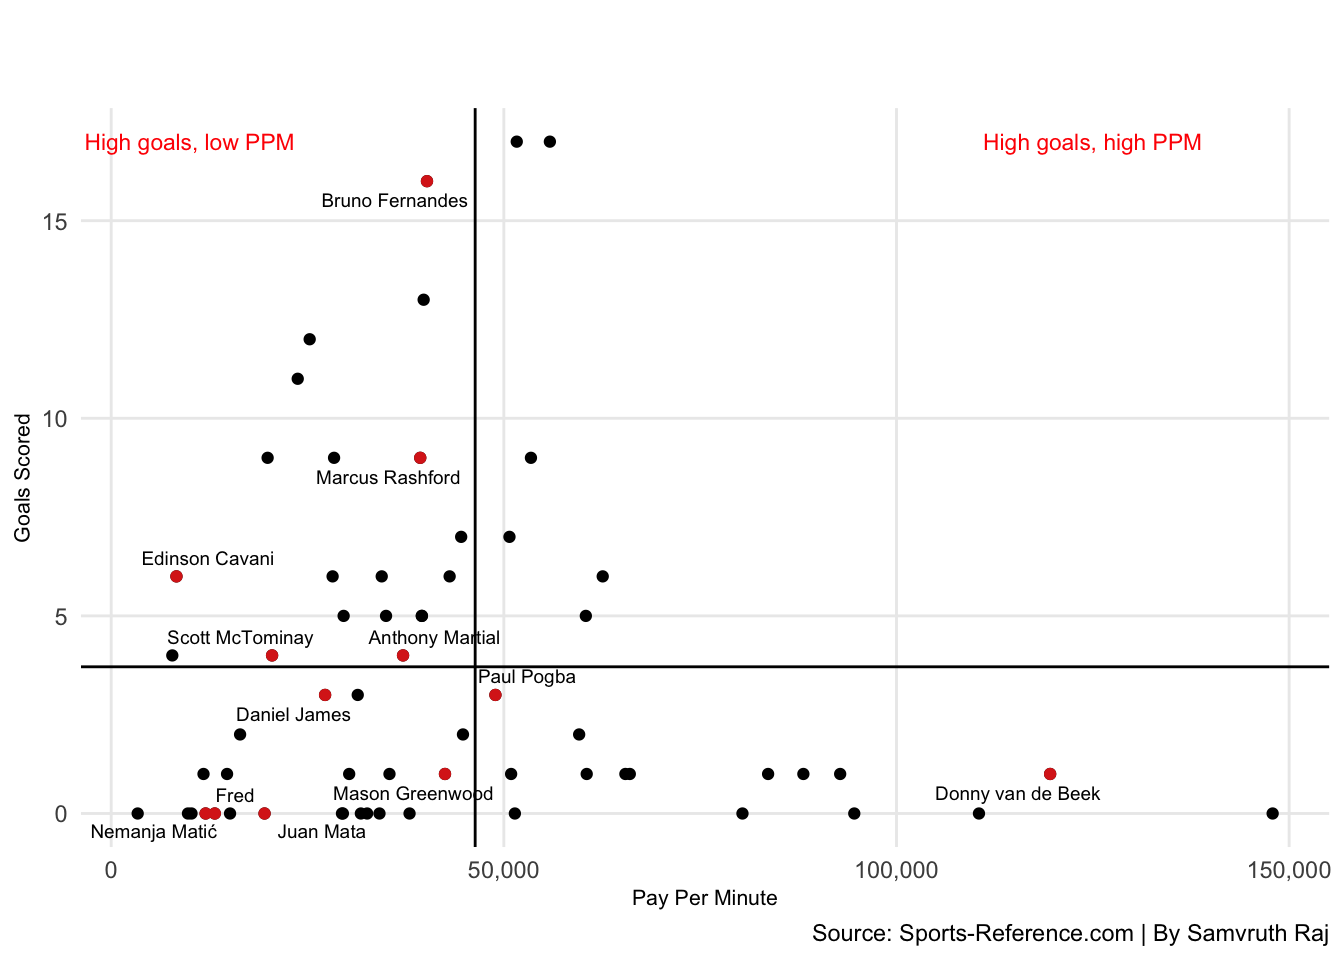
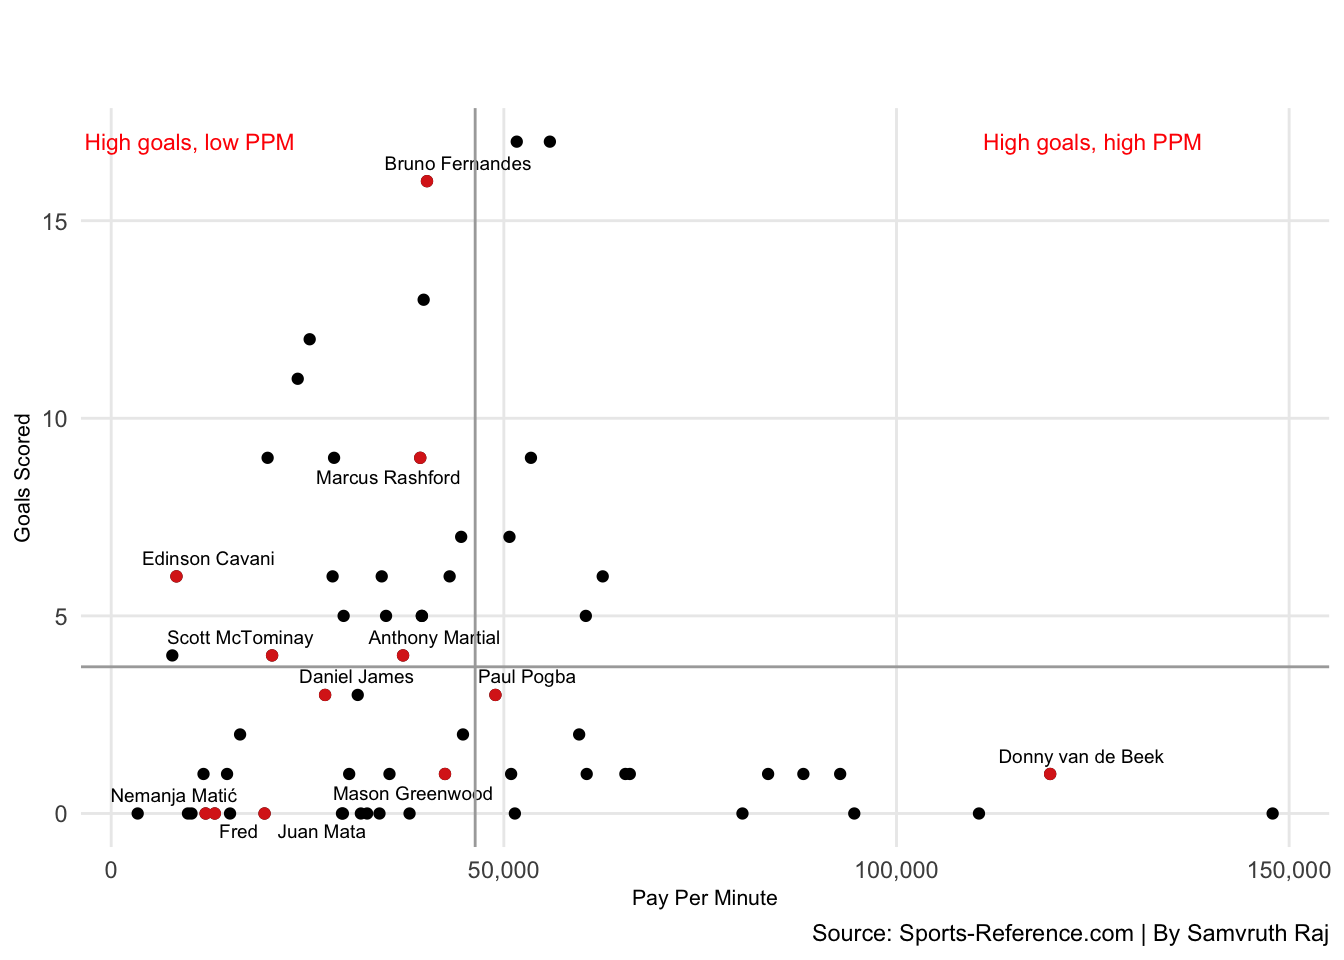
Project ready!

diff --git a/2021/04/01/do-manchester-united-players-have-the-worst-contracts-amongst-the-big-6-clubs/index.html b/2021/04/01/do-manchester-united-players-have-the-worst-contracts-amongst-the-big-6-clubs/index.html
@@ -62,7 +62,7 @@
 
   <article class="article">
     
-    <span class="article-duration">6 min read</span>
+    <span class="article-duration">11 min read</span>
     
 
     <h1 class="article-title">Do Manchester United Players have the worst contracts amongst the &#34;Big 6&#34; Clubs?</h1>
@@ -76,75 +76,51 @@
 <script src="/2021/04/01/do-manchester-united-players-have-the-worst-contracts-amongst-the-big-6-clubs/index_files/header-attrs/header-attrs.js"></script>
 
 
-<p>Manchester United has not won the English Premier League title ever since Sir Alex Ferguson, retired from his role as manager after the 2012/13 season. To this day, his successors David Moyes, Louis Van Gaal, Jose Mourinho, and Ole Gunnar Solskjaer have not been able to get success back to Old Trafford. David Moyes was chosen as the replacement right after Sir Alex retired, however, Moyes did not last that long as manager, following Moyes, Louis Van Gaal was at the club from 2014 to 2016, where he managed to win just one cup competition which was the FA Cup. Jose Mourinho was then given the job, in his first season as United manager, he led the team to the FA Community Shield, the League Cup, and the UEFA Europa League, the Red Devils also finished second place, right behind their rivals Man City, who went on to lift the Premier League title in the 2017/18 season. Following Mourinho’s dismissal, Ole Gunnar Solskjaer was appointed the interim boss for the remainder of the season and eventually penned a three-year deal with the Red Devils. Under Ole, Man United has not managed any silverware, losing four semifinals and a quarterfinal respectively. Well, one of the reasons Manchester United was so dominant before Sir Alex’s retirement, was good recruitment of players. United has desperately struggled with the recruitment of players, and over the past few years, players like, Angel Di Maria, Radamel Falcao, Alexis Sanchez, who have simply not fit United’s philosophy. Man United is known to give their players enormous contracts which eventually hurt the financials of the Club, given that these signings do not perform and eventually leave the club. Ever since Ole has got the permanent job, United seems to be doing just fine in terms of bringing players to Old Trafford, however, work needs to be done if Manchester United wants their glory days back.</p>
+<p>Manchester United has not won the English Premier League title ever since Sir Alex Ferguson, retired from his role as manager after the 2012/13 season. To this day, his successors David Moyes, Louis Van Gaal, Jose Mourinho, and Ole Gunnar Solskjaer have not been able to get success back to Old Trafford. David Moyes was chosen as the replacement right after Sir Alex retired, however, Moyes did not last long as manager, following Moyes, Louis Van Gaal was at the club from 2014 to 2016, where he managed to win just one cup competition which was the FA Cup. Jose Mourinho was then given the job, in his first season as United manager, he led the team to the FA Community Shield, the League Cup, and the UEFA Europa League, the Red Devils also finished second place, right behind their rivals Man City, who went on to lift the Premier League title in the 2017/18 season. Following Mourinho’s dismissal, Ole Gunnar Solskjaer was appointed the interim boss for the remainder of the season and eventually penned a three-year deal with the Red Devils. Under Ole, Man United has not managed to win any silverware, losing four semifinals and a quarterfinal respectively. Well, one of the reasons Manchester United was so dominant before Sir Alex’s retirement, was good recruitment of players. United has desperately struggled with the recruitment of players, and over the past few years, players like, Angel Di Maria, Radamel Falcao, Alexis Sanchez, who have simply not fit United’s philosophy. Man United is known to give their players enormous contracts which eventually hurt the financials of the club, given that these signings do not perform and eventually leave the club. Ever since Ole has got the permanent job, United seems to be doing just fine in terms of bringing players to Old Trafford, however, work needs to be done if Manchester United wants their glory days back.</p>
 <p>Here’s a look at some data.</p>
-<pre class="r"><code>library(tidyverse)</code></pre>
-<pre><code>## ── Attaching packages ─────────────────────────────────────── tidyverse 1.3.0 ──</code></pre>
-<pre><code>## ✓ ggplot2 3.3.3     ✓ purrr   0.3.4
-## ✓ tibble  3.0.5     ✓ dplyr   1.0.3
-## ✓ tidyr   1.1.2     ✓ stringr 1.4.0
-## ✓ readr   1.4.0     ✓ forcats 0.5.0</code></pre>
-<pre><code>## ── Conflicts ────────────────────────────────────────── tidyverse_conflicts() ──
-## x dplyr::filter() masks stats::filter()
-## x dplyr::lag()    masks stats::lag()</code></pre>
-<pre class="r"><code>library(scales)</code></pre>
-<pre><code>## 
-## Attaching package: &#39;scales&#39;</code></pre>
-<pre><code>## The following object is masked from &#39;package:purrr&#39;:
-## 
-##     discard</code></pre>
-<pre><code>## The following object is masked from &#39;package:readr&#39;:
-## 
-##     col_factor</code></pre>
-<pre class="r"><code>library(ggrepel)</code></pre>
+<pre class="r"><code>library(tidyverse)
+library(scales)
+library(ggrepel)</code></pre>
 <pre class="r"><code>PL &lt;- read_csv(&quot;EPlplayers2021.csv&quot;)</code></pre>
-<pre><code>## 
-## ── Column specification ────────────────────────────────────────────────────────
-## cols(
-##   .default = col_double(),
-##   Player = col_character(),
-##   CleanPlayer = col_character(),
-##   Nation = col_character(),
-##   Pos = col_character(),
-##   Squad = col_character(),
-##   Age = col_character()
-## )
-## ℹ Use `spec()` for the full column specifications.</code></pre>
 <p>I will be using one data set, where I have pulled the data from Sports Reference’s Soccer site which mainly deals with the Premier League data only, and I have also looked at Transfer market, to find the current Transfer Values of Manchester United players and players from the Big Six clubs.</p>
-<p>Since I wanted to just look at Manchester United, before I could compare them to the Big Six clubs, I filtered Manchester United out from by data set which had all the 20 Premier League teams. I also wanted to look at players with over 100 minutes, which basically rules out players coming up from the Academy, it would be unfair to look at their contracts as they are still breaking into the first team. It would also rule out players who picked long term injuries right at the start of the season.</p>
+<p>Since I wanted to just look at Manchester United, before I could compare them to the Big Six clubs, I filtered Manchester United out from my data set which had all the 20 Premier League teams. I also wanted to look at players with over 100 minutes, which rules out players coming up from the Academy, it would be unfair to look at their contracts as they are still breaking into the first team. It would also rule out players who picked long-term injuries right at the start of the season.</p>
 <pre class="r"><code>MUTD &lt;- PL %&gt;% filter(Squad == &quot;Manchester Utd&quot;) %&gt;% 
   filter(Min &gt; 100)</code></pre>
-<p>Firstly, I was curious to see the amount of money these players make per minute, doing some work with the data, I used their current transfer values, with the amount of minutes they have played this season. I could have used the current wages, but I went a step ahead and say these players were to be sold in the upcoming seasons?</p>
+<p>First, I was curious to see the amount of money these players make per minute, doing some work with the data, I used their current transfer values, with the number of minutes they have played this season. I could have used the current wages, but I went a step ahead and say these players were to be sold in the upcoming seasons?</p>
 <pre class="r"><code>PPM &lt;- MUTD %&gt;%
   mutate(PayPerMinute = TransferMarketvalue/Min)</code></pre>
-<p>Which brings me to my first chart, this Bar chart shows you the players and how much they get paid per minute.</p>
+<p>This brings me to my first chart, this Bar chart shows you the players and how much they get paid per minute.</p>
 <pre class="r"><code>ggplot() +
   geom_bar(data=PPM, aes(x= reorder(Player, PayPerMinute), weight=PayPerMinute)) + 
   coord_flip()+ 
   labs(x=&quot;Player&quot;, 
        y=&quot;Dollar Per Minute&quot;, 
-       title=&quot;Donny Van De Beek is struggling at Manchester United.&quot;, 
+       title=&quot;Van De Beek is the Highest Earner, with the Lowest Minutes played.&quot;, 
        subtitle=&quot;Will this season be the end at Old Trafford for the Dutchman?&quot;, 
        caption=&quot;Source: Sports-Reference.com | By Samvruth Raj&quot;) + 
   theme_minimal() + 
   theme(
-    plot.title = element_text(size = 14, face = &quot;bold&quot;),
+    plot.title = element_text(size = 12, face = &quot;bold&quot;),
     axis.title = element_text(size = 9), 
     plot.subtitle = element_text(size=10), 
-    ) </code></pre>
+    )</code></pre>
 <p><img src="/2021/04/01/do-manchester-united-players-have-the-worst-contracts-amongst-the-big-6-clubs/index_files/figure-html/unnamed-chunk-5-1.png" width="672" /></p>
+<p>Well, looking at this bar chart, I am not surprised Donny Van De Beek tops the chart with the most money being earned compared to the minutes he has played this season, Alex Telles is another summer signing who we all expected to play a lot more, but given Luke Shaw’s current form, Ole sees Alex Telles more on the bench than on the pitch. This chart explains the amount of money the current Manchester United players earn, given the number of minutes they have played this season in the Premier League.</p>
+<p>Moving on,</p>
+<p>Manchester United as most of us know is considered a “Big Six,” club, with Arsenal, Chelsea, Liverpool, Manchester City, and Tottenham making up the rest. I wanted my analysis to extend and compare Man United to these other clubs.</p>
+<p>Over here, going back to my Premier League Data which consists of all the 20 clubs, I am interested in only those Big Six clubs, so I take them out of the data set to further my analysis.</p>
 <pre class="r"><code>BigSix &lt;- c(&quot;Arsenal&quot; , &quot;Chelsea&quot; , &quot;Liverpool&quot; , &quot;Manchester City&quot; , &quot;Manchester Utd&quot; ,&quot;Tottenham&quot;)
 BigSixData &lt;- PL %&gt;% filter(Squad %in% BigSix)</code></pre>
-<pre class="r"><code>BigSixPPm &lt;- BigSixData  %&gt;% 
-  mutate(PPM = TransferMarketvalue/Min)</code></pre>
+<p>Now that I have my data, I went ahead and found the average minutes played this season and the average transfer value of the players.</p>
 <pre class="r"><code>BigSixData %&gt;% summarise(Transfermarketvalueaverage = mean(TransferMarketvalue, na.rm = TRUE),
                          Averageminutes = mean(Min, na.rm = TRUE))</code></pre>
 <pre><code>## # A tibble: 1 x 2
 ##   Transfermarketvalueaverage Averageminutes
 ##                        &lt;dbl&gt;          &lt;dbl&gt;
 ## 1                  36056319.          1180.</code></pre>
+<p>Well, this brings me to my second chart, rather a scatter plot, not so much a chart.</p>
 <pre class="r"><code>ggplot()+
-  geom_point(data = BigSixPPm, aes(x= TransferMarketvalue, y= Min), color = &quot;grey&quot;) +
+  geom_point(data = BigSixData, aes(x= TransferMarketvalue, y= Min), color = &quot;grey&quot;) +
   geom_point(data = MUTD, aes(x=TransferMarketvalue, y=Min), color = &quot;#DA291C&quot;) + 
   geom_text_repel(data= MUTD, aes(x= TransferMarketvalue, y= Min, label= Player), size = 3) +
   geom_vline(xintercept = 36056319, color= &quot;dark grey&quot;) +
@@ -154,56 +130,71 @@ BigSixData &lt;- PL %&gt;% filter(Squad %in% BigSix)</code></pre>
   scale_x_continuous(labels = comma) + 
   labs(x=&quot;Transfer Market Value&quot;, 
        y=&quot;Minutes Played&quot;, 
-       title=&quot;&quot;, 
-       subtitle=&quot;&quot;, 
+       title=&quot;Manchester United Players are where they should be.&quot;, 
+       subtitle=&quot;With some of their players futures in question?&quot;, 
        caption=&quot;Source: Sports-Reference.com | By Samvruth Raj&quot;) + 
   theme_minimal() + 
   theme(
-    plot.title = element_text(size = 16, face = &quot;bold&quot;),
+    plot.title = element_text(size = 13, face = &quot;bold&quot;),
     axis.title = element_text(size = 8), 
     plot.subtitle = element_text(size=10), 
     panel.grid.minor = element_blank()
     ) </code></pre>
 <pre><code>## Warning: Removed 2 rows containing missing values (geom_point).</code></pre>
-<p><img src="/2021/04/01/do-manchester-united-players-have-the-worst-contracts-amongst-the-big-6-clubs/index_files/figure-html/unnamed-chunk-9-1.png" width="672" /></p>
+<p><img src="/2021/04/01/do-manchester-united-players-have-the-worst-contracts-amongst-the-big-6-clubs/index_files/figure-html/unnamed-chunk-8-1.png" width="672" /></p>
+<p>Here I have all the Manchester United Players in red dots compared them to all the players in the Big Six, they are represented in grey dots. I also have two lines that show the average minutes played and the average transfer values based on this season’s stats.</p>
+<p>Looking at this scatter plot, there are four sides, starting upper-left side you have players who fit “low transfer Value, with high minutes played,” under that, which is the lower-left side you have players who fit “low transfer value, low minutes played, following towards the upper-right side you have players who fit”high transfer value, high minutes played," and finally lower-right side you have players who fit “high transfer value, low minutes played.”</p>
+<p>My take from this, that I am surprised to see that most of the starting eleven players for United are in the Upper left and right side, given that United’s players performance is always under question in the media, with only Bruno Fernandes and Marcus Rashford being in the little extreme upper left side. No surprises where Donny Van De Beek is at, as again goes back to my previous chart, he earns a lot of money per minute, with no minutes under his belt, and he has a fairly decent transfer value amount. This scatter plot was made, mainly to look at the Man United players comparing them to players on the Big Six clubs with the number of minutes played this season and what their transfer values are if they were to be sold.</p>
+<p>So far, so good.</p>
+<p>Furthermore,</p>
+<p>When we talk about Football, what everyone talks about are Goals, it probably is the most everyone remembers, spoken about, are Goals period. You can argue that referee decisions, penalties, red cards, and yellow cards. I would agree, but goals are what you are remembered for and sometimes it attracts clubs who want to buy you! Often attacking players make more money than defensive players, given that they have bonuses and different clauses in their contracts.</p>
+<p>So to further my analysis, I went ahead and filtered out the forwards and midfielders, from the Big Six clubs, questioning why no defenders and keepers? the simple answer to that would be Defenders mainly score off set pieces and I cannot recollect the last time a goalKeeper scored and it is simply not fair to include them, as their job is defending the goal not scoring, and creating chances. I made sure I had players who had more than 100 minutes to rule out injured and young players who don’t play that much football.</p>
 <pre class="r"><code>Attack &lt;- c(&quot;FW&quot; , &quot;MF&quot; , &quot;MFFW&quot;) 
 
 Attackers &lt;- BigSixData %&gt;% filter(Pos %in% Attack) %&gt;% filter (Min &gt; 100)</code></pre>
+<p>Here I go back to finding the pay per minute for the attacking or forward players, using their Transfer Market value and the number of minutes played this season. I also filtered out Manchester United’s attacking players for my third plot.</p>
 <pre class="r"><code>AttackPPm &lt;- Attackers %&gt;% 
   mutate(ppm = TransferMarketvalue/Min)
 
 MU &lt;- AttackPPm %&gt;%  
   filter(Squad == &quot;Manchester Utd&quot;) %&gt;%
   filter(Min &gt; 100)</code></pre>
+<p>One last step before you see my third plot is finding the average goals scored and the average pay per minute.</p>
 <pre class="r"><code>AttackPPm %&gt;% summarise(GoalAverage = mean(Gls, na.rm = TRUE), 
                         PPmAverage = mean(ppm, na.rm = TRUE))</code></pre>
 <pre><code>## # A tibble: 1 x 2
 ##   GoalAverage PPmAverage
 ##         &lt;dbl&gt;      &lt;dbl&gt;
 ## 1        3.67     43110.</code></pre>
+<p>There you go, this brings you to my third scatter plot.</p>
 <pre class="r"><code>ggplot()+
-  geom_point(data = AttackPPm, aes(x= ppm, y= Gls))+
+  geom_point(data = AttackPPm, aes(x= ppm, y= Gls), color= &quot;grey&quot;)+
   geom_point(data = MU, aes(x = ppm, y = Gls), color = &quot;#DA291C&quot; ) +
    geom_text_repel(data= MU, aes(x= ppm, y= Gls, label= Player), size = 2.5) +
-  geom_vline(xintercept = 46346.62) +
-  geom_hline(yintercept =3.711864 )+
+  geom_vline(xintercept = 46346.62, color = &quot;dark grey&quot;) +
+  geom_hline(yintercept =3.711864, color = &quot;dark grey&quot; )+
   geom_text(aes(x=10000, y=17, label=&quot;High goals, low PPM&quot;), color = &quot;red&quot;, size = 3) +
   geom_text(aes(x=125000, y=17, label=&quot;High goals, high PPM&quot;), color = &quot;red&quot;, size=3) +
   scale_x_continuous(labels = comma) + 
-  labs(x=&quot;Pay Per Minute&quot;, 
+  labs(x=&quot;Pay Per Minute (PPM)&quot;, 
        y=&quot;Goals Scored&quot;, 
-       title=&quot;&quot;, 
-       subtitle=&quot;&quot;, 
+       title=&quot;Is only Manchester United Struggling with their player&#39;s contracts?&quot;, 
+       subtitle=&quot;Players from other Big Six club&#39;s have Bad Contract&#39;s as well!&quot;, 
        caption=&quot;Source: Sports-Reference.com | By Samvruth Raj&quot;) + 
   theme_minimal() + 
   theme(
-    plot.title = element_text(size = 16, face = &quot;bold&quot;),
+    plot.title = element_text(size = 13, face = &quot;bold&quot;),
     axis.title = element_text(size = 8), 
     plot.subtitle = element_text(size=10), 
     panel.grid.minor = element_blank()
     ) </code></pre>
 <pre><code>## Warning: Removed 1 rows containing missing values (geom_point).</code></pre>
-<p><img src="/2021/04/01/do-manchester-united-players-have-the-worst-contracts-amongst-the-big-6-clubs/index_files/figure-html/unnamed-chunk-13-1.png" width="672" /></p>
+<p><img src="/2021/04/01/do-manchester-united-players-have-the-worst-contracts-amongst-the-big-6-clubs/index_files/figure-html/unnamed-chunk-12-1.png" width="672" /></p>
+<p>You have seen this before, again, the scatter plot is split into four sides, starting upper-left you have players who fit “high goals scored and low PPm,” under that, which is the lower-left side you have players who fit “low goals, low PPm,” to your upper-right side you have players who fit “high goals, high PPm,” and finally lower-right side you have players who fit “low goals, High Ppm.” The two lines which split the scatter plot into the four sides are the average goals scored line and the average pay per minute line.</p>
+<p>My take, am I surprised at the United Attack? Yes and no.</p>
+<p>Marcus Rashford and Bruno Fernandes are the ones who are performing week in and week out and are paid less, on the flip side, Paul Pogba and poor Donny Van de Beek, are getting paid way more than what they should be, I feel bad for going after Donny but the stats don’t lie, but I honestly think he will shine in a United Shirt, first seasons are always hard for players coming in from abroad, that is provided he chooses not to leave the club.</p>
+<p>Going back to the ending of my first paragraph of this blog? I spoke about Ole Gunnar Solskjaer, who is the current manager, saying that United are doing just fine in terms of recruitment, I would agree with that, yes some players are still getting paid a lot of money and not performing or playing, you cannot get everything right in football, sometimes a player just does not fit the philosophy, and looking at my third scatter plot, is it only Donny in the lower left side? you have other dots in grey who are from big six clubs. That answers that United players are not the only ones with bad contracts compared to the Big Six.</p>
+<p>I promise you this is the last part of my blog, I created a model to see if getting paid per minute and scoring goals have a relationship with each other.</p>
 <pre class="r"><code>AttackingModel &lt;- lm(Gls~ppm, data = AttackPPm)
 summary(AttackingModel)</code></pre>
 <pre><code>## 
@@ -225,6 +216,7 @@ summary(AttackingModel)</code></pre>
 ##   (1 observation deleted due to missingness)
 ## Multiple R-squared:  0.01033,    Adjusted R-squared:  -0.006166 
 ## F-statistic: 0.6262 on 1 and 60 DF,  p-value: 0.4319</code></pre>
+<p>I am not a math person, and I don’t like numbers but you won’t have to worry about the numbers, because I will explain what’s going on. Again, I should not be surprised because goals scored and getting paid per minute do not have a relationship. Needless to say that they aren’t statistically significant. Again football is just not about goals and money for an attacking player, it can be so much more, for example, Assists, key passes, tackles which all are not here in this model, so the simple answer nope goals scored and being paid per minute are not related. I was curious to see if there was anything, sadly I did not get much out of this model.</p>
 
     </div>
   </article>
